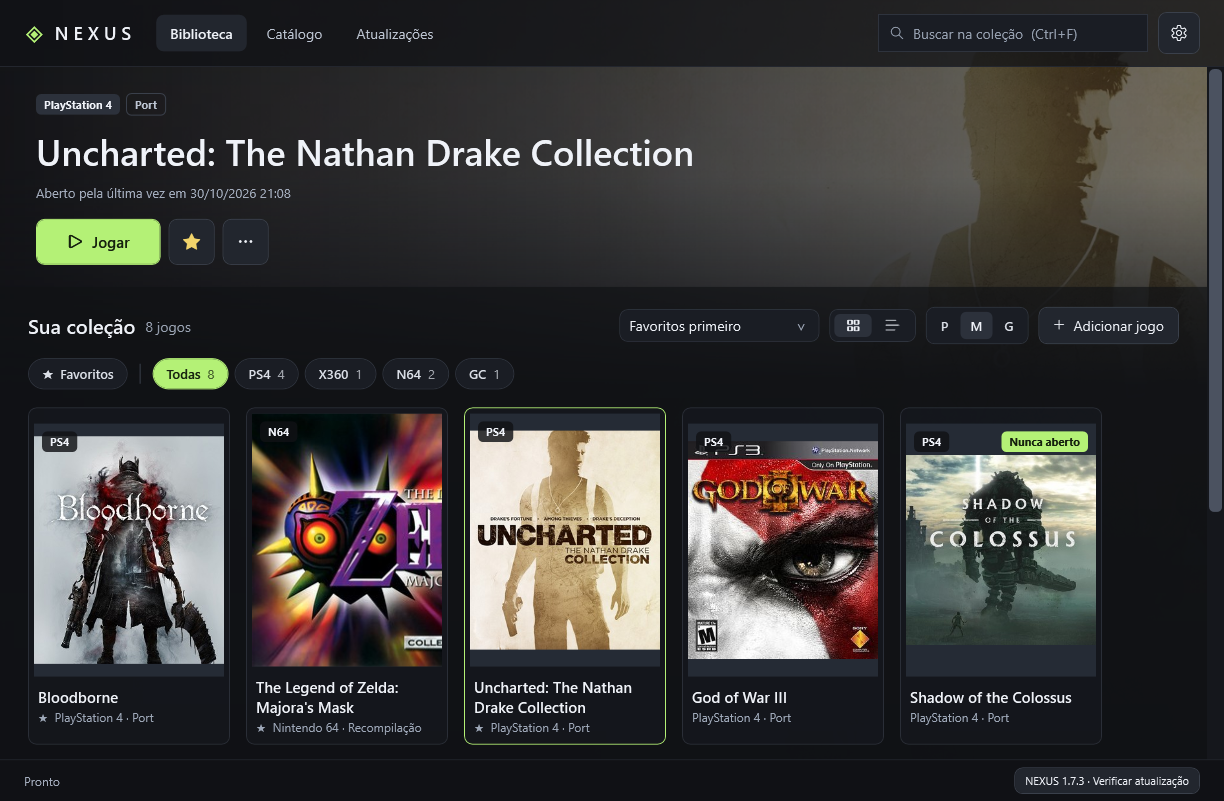
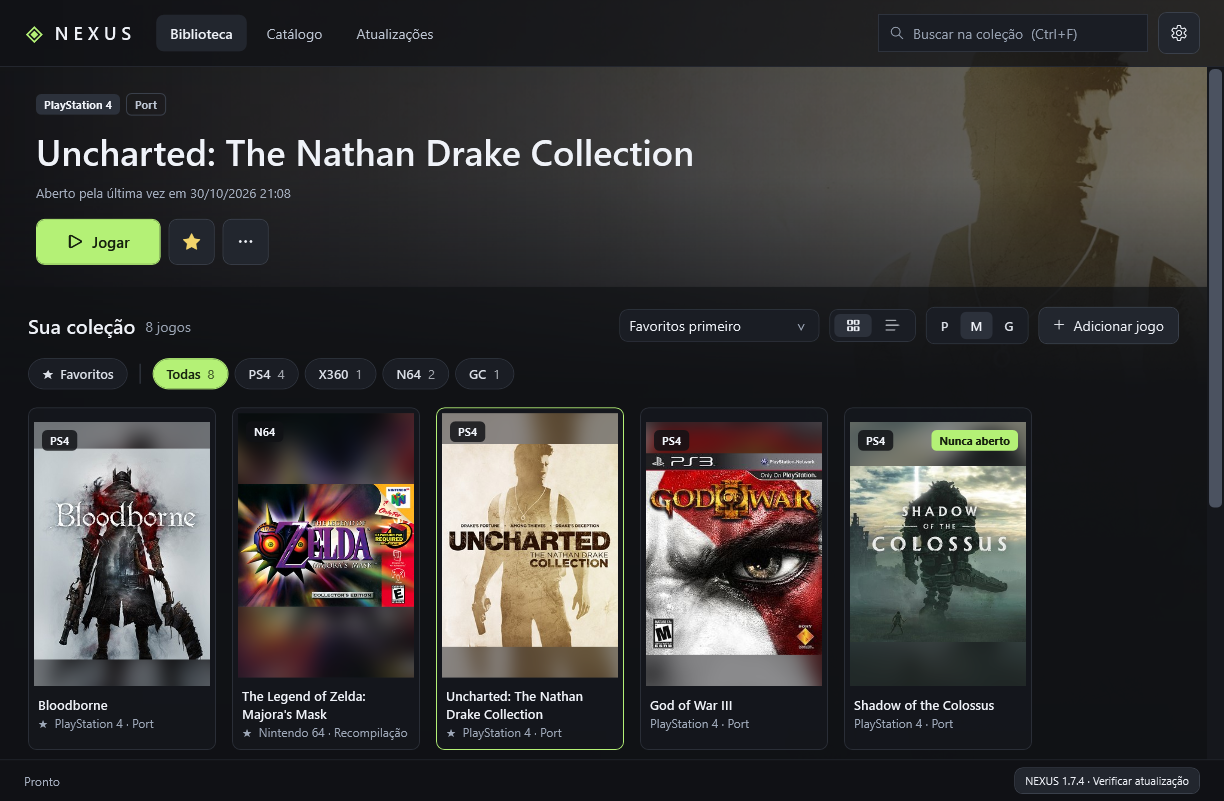
Covers fill 2:3 cards; better cover search
- Grid cards use the 2:3 shape of SteamGridDB/Steam library covers, so those fill the card with no side bars.
- Covers of other shapes (Wikipedia box art, landscape N64 boxes) are shown whole over a blurred copy of themselves.
- Artwork search ignores the port project after ' · ' and falls back to a Wikipedia search when the exact article has no image.
- Covers are fetched again once (CoverRevision 2), except covers chosen by the user.

Changed region(s): [[0.0, 0.4994, 0.9003, 0.9363], [0.9935, 0.6242, 1.0, 0.6554]]

diff --git a/src/Program.cs b/src/Program.cs
@@ -72,8 +72,9 @@ namespace Nexus {
     Game selected;bool smoke;bool closing;bool checkingLauncher;
     string platformFilter=Platforms.All[0];
     Gamepad gamepad;
-    // Grid cards are portrait covers (3:4), so the widths are narrower than the old landscape cards.
-    static readonly int[] GridSizes={150,190,240},ListSizes={56,76,110};
+    // Grid cards use the 2:3 cover format (SteamGridDB/Steam library covers are 600×900).
+    static readonly int[] GridSizes={140,176,220},ListSizes={56,76,110};
+    const int CurrentCoverRevision=2;public const string ChosenCover="Capa escolhida por você";
     static readonly Brush Muted=Frozen(Color.FromRgb(158,168,184));
     static Brush Frozen(Color color){var brush=new SolidColorBrush(color);brush.Freeze();return brush;}
     T Find<T>(string name) where T:class {return Window.FindName(name) as T;}
@@ -121,7 +122,10 @@ namespace Nexus {
       if(library.SeenCatalogIds==null){library.SeenCatalogIds=PortCatalog.LoadEntries().Select(e=>e.Id).ToList();if(!smoke)Save();}
       UpdateCatalogBadge(PortCatalog.LoadEntries());
       selected=library.Games.FirstOrDefault();Refresh();
-      Window.Loaded+=delegate{if(!smoke){foreach(Game g in library.Games.ToArray()){if(String.IsNullOrEmpty(g.Artwork)||!File.Exists(g.Artwork))ResolveArtwork(g);if(String.IsNullOrEmpty(g.Cover)||!File.Exists(g.Cover))ResolveCover(g);}}};
+      Window.Loaded+=delegate{if(!smoke){
+        bool refreshCovers=library.CoverRevision<CurrentCoverRevision;if(refreshCovers){library.CoverRevision=CurrentCoverRevision;Save();}
+        foreach(Game g in library.Games.ToArray()){if(String.IsNullOrEmpty(g.Artwork)||!File.Exists(g.Artwork))ResolveArtwork(g);if(String.IsNullOrEmpty(g.Cover)||!File.Exists(g.Cover)||refreshCovers&&g.CoverSource!=ChosenCover)ResolveCover(g);}
+      }};
       Window.Loaded+=delegate{if(!smoke){if(Environment.GetCommandLineArgs().Contains("--nexus-update-failed"))Status("A atualização não foi concluída. A versão anterior foi restaurada; consulte os logs em launcher-updates.");StartupChecks();}};
       Window.Loaded+=delegate{if(!smoke){gamepad=new Gamepad(()=>Window.IsActive&&Window.OwnedWindows.Count==0);gamepad.Pressed+=OnPad;}};
     }
@@ -253,11 +257,17 @@ namespace Nexus {
     }
 
     Grid Artwork(Game g,double width,double height,bool badges,bool cover=false){
-      var art=new Grid{Width=width,Height=height,Background=Frozen(Color.FromRgb(37,43,53))};ImageSource source=(cover?LoadImage(g.Cover):null)??LoadImage(g.Artwork);
-      // Box art close to the card shape (PS4/Switch boxes are slightly wider than 3:4) is shown whole;
-      // anything far from it, like landscape backgrounds, fills the card instead.
+      var art=new Grid{Width=width,Height=height,Background=Frozen(Color.FromRgb(37,43,53))};ImageSource coverImage=cover?LoadImage(g.Cover):null,source=coverImage??LoadImage(g.Artwork);
+      // Covers with the card shape (SteamGridDB 600×900) fill it. Other box art (Wikipedia scans, landscape
+      // N64 boxes) is shown whole over a blurred copy of itself, so the card never shows empty bars.
       double ratio=source==null||source.Height<=0?0:source.Width/source.Height,shape=width/height;
-      if(source!=null)art.Children.Add(new Image{Source=source,Stretch=cover&&ratio>shape*0.8&&ratio<shape*1.4?Stretch.Uniform:Stretch.UniformToFill});
+      bool whole=coverImage!=null&&Math.Abs(ratio-shape)/shape>0.06;
+      if(source!=null&&whole){
+        art.Children.Add(new Image{Source=source,Stretch=Stretch.UniformToFill,Effect=new System.Windows.Media.Effects.BlurEffect{Radius=28},Margin=new Thickness(-20)});
+        art.Children.Add(new System.Windows.Shapes.Rectangle{Fill=Frozen(Color.FromArgb(120,16,17,21))});
+        art.Children.Add(new Image{Source=source,Stretch=Stretch.Uniform});
+      }
+      else if(source!=null)art.Children.Add(new Image{Source=source,Stretch=Stretch.UniformToFill});
       else art.Children.Add(new TextBlock{Text="◈",Foreground=Theme("Accent"),FontSize=Math.Max(24,height/3),HorizontalAlignment=HorizontalAlignment.Center,VerticalAlignment=VerticalAlignment.Center});
       if(!badges)return art;
       var platform=Badge(Platforms.ShortName(Platforms.Resolve(g)),Frozen(Color.FromArgb(210,16,17,21)),Theme("Text"),null);platform.HorizontalAlignment=HorizontalAlignment.Left;platform.VerticalAlignment=VerticalAlignment.Top;platform.Margin=new Thickness(8);art.Children.Add(platform);
@@ -269,7 +279,7 @@ namespace Nexus {
 
     Button GridCard(Game g){
       var card=new StackPanel{Width=library.GridSize};
-      card.Children.Add(new Border{CornerRadius=new CornerRadius(8),ClipToBounds=true,Child=Artwork(g,library.GridSize,library.GridSize*4.0/3,true,true)});
+      card.Children.Add(new Border{CornerRadius=new CornerRadius(8),ClipToBounds=true,Child=Artwork(g,library.GridSize,library.GridSize*1.5,true,true)});
       card.Children.Add(new TextBlock{Text=g.Name,FontWeight=FontWeights.SemiBold,FontSize=library.GridSize<180?13:15,TextWrapping=TextWrapping.Wrap,MaxHeight=44,TextTrimming=TextTrimming.CharacterEllipsis,Margin=new Thickness(4,10,4,2)});
       card.Children.Add(new TextBlock{Text=Subtitle(g),Foreground=Muted,FontSize=12,TextTrimming=TextTrimming.CharacterEllipsis,Margin=new Thickness(4,0,4,4)});
       return CardButton(g,card,false);
@@ -456,7 +466,7 @@ namespace Nexus {
       if(size>0){if(mode=="list")library.ListSize=size;else library.GridSize=size;library.NormalizeView();UpdateViewControls();RefreshGrid();}
       if(library.ViewMode!=mode)throw new Exception("View switch failed");Panel shown=mode=="list"?(Panel)Find<StackPanel>("GameList"):Find<WrapPanel>("GameGrid");
       if(shown.Visibility!=Visibility.Visible||shown.Children.Count!=library.Games.Count)throw new Exception("View rendering failed");
-      if(mode=="grid"&&shown.Children.Count>0){var art=(Grid)((Border)((StackPanel)((Button)shown.Children[0]).Content).Children[0]).Child;if(Math.Abs(art.Height-art.Width*4.0/3)>0.5)throw new Exception("Grid cards must use the 3:4 cover format");}
+      if(mode=="grid"&&shown.Children.Count>0){var art=(Grid)((Border)((StackPanel)((Button)shown.Children[0]).Content).Children[0]).Child;if(Math.Abs(art.Height-art.Width*1.5)>0.5)throw new Exception("Grid cards must use the 2:3 cover format");}
       if(library.Games.Count>0){var lastButton=(Button)shown.Children[shown.Children.Count-1];string expected=(string)lastButton.ToolTip;lastButton.RaiseEvent(new RoutedEventArgs(ButtonBase.ClickEvent));if(selected==null||selected.Name!=expected)throw new Exception("Selection failed");Find<TextBox>("SearchBox").Text=expected;if(shown.Children.Count<1)throw new Exception("Search in view failed");Find<TextBox>("SearchBox").Text="";}
       var chips=Find<WrapPanel>("PlatformChips").Children.Cast<ToggleButton>().Select(c=>(string)c.Tag).ToList();
       if(chips.Count!=1+library.Games.Select(g=>Platforms.Resolve(g)).Distinct().Count())throw new Exception("Platform chips must list only platforms present in the collection");
@@ -510,7 +520,7 @@ namespace Nexus {
           candidate.ConfigurationExecutable=configExe.Text.Trim().Trim('"');candidate.ConfigurationArguments=configArgs.Text;candidate.ArtworkSearchTitle=artTitle.Text.Trim();
           if(!String.IsNullOrEmpty(candidate.ConfigurationExecutable))Ports.ConfigurationStartInfo(candidate);
           if(!String.IsNullOrEmpty(picked)){candidate.Artwork=store.ImportArtwork(picked,candidate.Id);candidate.ArtworkSource="Imagem escolhida por você";}
-          if(!String.IsNullOrEmpty(pickedCover)){candidate.Cover=store.ImportArtwork(pickedCover,candidate.Id);candidate.CoverSource="Capa escolhida por você";}
+          if(!String.IsNullOrEmpty(pickedCover)){candidate.Cover=store.ImportArtwork(pickedCover,candidate.Id);candidate.CoverSource=Launcher.ChosenCover;}
           Result=candidate;DialogResult=true;
         }catch(Exception ex){MessageBox.Show(this,ex.Message,"Confira o cadastro",MessageBoxButton.OK,MessageBoxImage.Warning);}
       };

diff --git a/src/CatalogTests.cs b/src/CatalogTests.cs
@@ -106,6 +106,7 @@ namespace Nexus {
         copyPlan=PortMove.Build(installed,moveLibrary,copyTarget,false);copyPlan.SameVolume=false;copied=PortMove.Execute(copyPlan,null,CancellationToken.None);Check(PortMove.Finish(copyPlan).Count==0&&!Directory.Exists(installedRoot)&&UpdateManager.Managed(copied),"finish deletes the old copy after a verified copy");
         var cancelled=new CancellationTokenSource();cancelled.Cancel();var cancelPlan=PortMove.Build(copied,new List<Game>{copied},Path.Combine(root,"cancel target"),false);cancelPlan.SameVolume=false;Reject(()=>PortMove.Execute(cancelPlan,null,cancelled.Token),"move cancellation");Check(UpdateManager.Managed(copied)&&!Directory.Exists(Path.Combine(root,"cancel target",Path.GetFileName(copied.ManagedInstallationRoot))),"cancelled move leaves the port in place");
       }
+      Check(Ports.CanonicalTitle(new Game{Name="Drakengard 3 · Drakengard 3 Recomp",Executable=Path.Combine(root,"d3.exe")})=="Drakengard 3"&&Ports.CanonicalTitle(new Game{Name="Port · Projeto",ArtworkSearchTitle="Título oficial",Executable=Path.Combine(root,"p.exe")})=="Título oficial","artwork search uses the game title, not the port project");
       Check(Platforms.ShortName("Nintendo 64")=="N64"&&Platforms.All.Skip(1).All(p=>!String.IsNullOrEmpty(Platforms.ShortName(p))),"every platform has a short badge label");
       var lucas=entries.First(e=>e.Id=="sotc-lucas");Check(lucas.Repository=="Lucas-blip-png/ShadowOfTheColossus-PC"&&lucas.Platform=="PlayStation 4"&&lucas.Arguments=="--play"&&lucas.ConfigurationArguments==""&&lucas.PlayNames.Single()=="SotC.exe"&&lucas.ConfigNames.Single()=="SotC.exe","Lucas Shadow profile separates direct play and original configuration");var lucasRelease=PortCatalog.BundledRelease(lucas);var lucasJson=new JavaScriptSerializer().Serialize(new{tag_name=lucasRelease.Version,html_url=lucasRelease.ReleaseUrl,draft=false,prerelease=false,assets=new[]{new{name="SotC-PC.zip",size=100,browser_download_url=lucas.ProjectUrl+"/releases/download/test/SotC-PC.zip"},new{name="SotC-PC-Otimizada-NVIDIA.zip",size=100,browser_download_url=lucas.ProjectUrl+"/releases/download/test/SotC-PC-Otimizada-NVIDIA.zip"},new{name="SotC-PC-Otimizada-AMD-Intel.zip",size=100,browser_download_url=lucas.ProjectUrl+"/releases/download/test/SotC-PC-Otimizada-AMD-Intel.zip"}}});Check(PortCatalog.ParseRelease(lucas,lucasJson).AssetName=="SotC-PC.zip","Lucas uses generic complete ZIP rather than GPU-specific preset");Check(new[]{"sotc-opt","sotc-original","sotc-lucas"}.Select(id=>entries.First(e=>e.Id==id).Identity).Distinct().Count()==3,"Shadow alternatives retain distinct source identities");
       var totk=entries.First(e=>e.Id=="totk");Check(totk.Platform=="Nintendo Switch"&&totk.UsesInstaller&&totk.PackageKind=="InstallerZip"&&totk.PlayNames.Single()=="TotK-Setup.exe","TotK uses zipped author setup and Switch platform");var witch=entries.First(e=>e.Id=="witch-time");Check(witch.Platform=="Nintendo Switch"&&witch.PreferRootExecutable&&witch.Arguments=="--play"&&witch.ConfigNames.Single()=="witch-time.exe"&&!witch.UsesInstaller,"Witch Time separates direct play from configuration launcher");

diff --git a/src/Artwork.cs b/src/Artwork.cs
@@ -53,8 +53,15 @@ namespace Nexus {
     async Task<ArtworkResult> Wikipedia(Game game,CancellationToken token){
       string title=Ports.CanonicalTitle(game);if(title=="Shadow of the Colossus")title="Shadow of the Colossus (2018 video game)";
       string endpoint="https://en.wikipedia.org/w/api.php?action=query&format=json&formatversion=2&redirects=1&prop=pageimages&piprop=original&pilicense=any&titles="+Uri.EscapeDataString(title);
+      var found=await WikipediaPages(endpoint,game,token);if(found!=null)return found;
+      // No exact article (or one without an image, like a disambiguation page): search for the game instead.
+      string search="https://en.wikipedia.org/w/api.php?action=query&format=json&formatversion=2&generator=search&gsrlimit=3&gsrnamespace=0&prop=pageimages&piprop=original&pilicense=any&gsrsearch="+Uri.EscapeDataString(title+" video game");
+      return await WikipediaPages(search,game,token);
+    }
+    async Task<ArtworkResult> WikipediaPages(string endpoint,Game game,CancellationToken token){
       var doc=await Json(endpoint,null,token);var query=Map(Get(doc,"query"));
-      foreach(object item in Array(Get(query,"pages"))){var page=Map(item);string url=Convert.ToString(Get(Map(Get(page,"original")),"source"));if(!String.IsNullOrWhiteSpace(url))return new ArtworkResult{File=await Download(url,game.Id,token),Source="Wikipedia · https://en.wikipedia.org/wiki/"+Uri.EscapeDataString(Convert.ToString(Get(page,"title")))};}
+      var pages=Array(Get(query,"pages")).Select(Map).OrderBy(p=>{object index=Get(p,"index");return index==null?0:Convert.ToInt32(index);});
+      foreach(var page in pages){string url=Convert.ToString(Get(Map(Get(page,"original")),"source"));if(!String.IsNullOrWhiteSpace(url))return new ArtworkResult{File=await Download(url,game.Id,token),Source="Wikipedia · https://en.wikipedia.org/wiki/"+Uri.EscapeDataString(Convert.ToString(Get(page,"title")))};}
       return null;
     }
     async Task<string> SteamGridId(Game game,string key,CancellationToken token){

diff --git a/src/Core.cs b/src/Core.cs
@@ -49,6 +49,8 @@ namespace Nexus {
     public string SortMode {get;set;}
     // Catalog profiles already shown to the user; anything else appears under "Novidades".
     public List<string> SeenCatalogIds {get;set;}
+    // Bumped when the automatic cover search improves, so covers found by an older search are fetched again once.
+    public int CoverRevision {get;set;}
     public Library() {Version=1;Games=new List<Game>();OnlineArtwork=true;AutoUpdateLauncher=true;ViewMode="grid";GridSize=220;ListSize=76;SortMode="favorites";}
     public void NormalizeView(){ViewMode=ViewMode=="list"?"list":"grid";GridSize=Math.Max(140,Math.Min(340,GridSize<=0?220:GridSize));ListSize=Math.Max(48,Math.Min(132,ListSize<=0?76:ListSize));if(!new[]{"favorites","name","recent","platform"}.Contains(SortMode))SortMode="favorites";}
     public string ApiKey() {
@@ -132,7 +134,9 @@ namespace Nexus {
     }
     public static string CanonicalTitle(Game game){
       if(!String.IsNullOrWhiteSpace(game.ArtworkSearchTitle))return game.ArtworkSearchTitle.Trim();
-      return PortTitle(game);
+      // Catalog names read "Game · Project"; artwork belongs to the game, not to the port project.
+      string title=PortTitle(game);int separator=title.IndexOf(" · ",StringComparison.Ordinal);
+      return separator>0?title.Substring(0,separator).Trim():title;
     }
     public static string PortTitle(Game game){
       string marker=(game.Name+" "+Path.GetFileName(game.Executable)+" "+Path.GetDirectoryName(game.Executable)).ToLowerInvariant();
